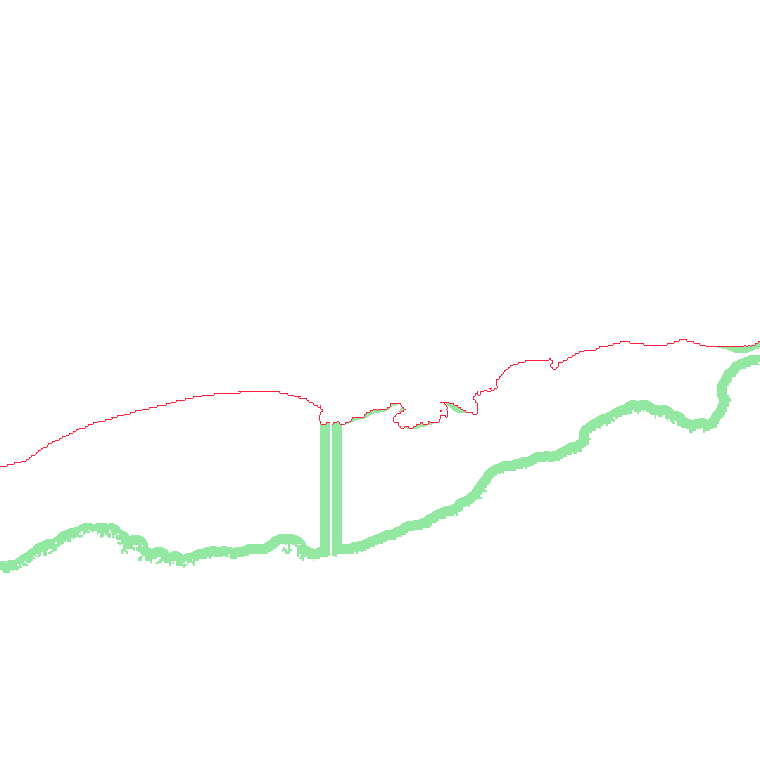
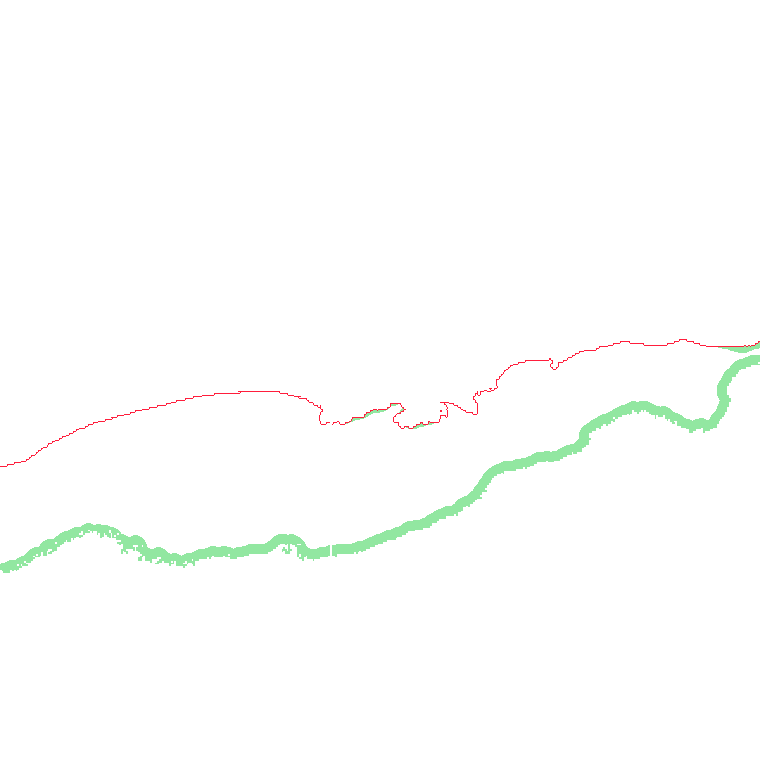
Map: mainland-only shore, drop seam artifacts, continuous 12 C line
Follow-up to the red-line/fake-shore fixes, from a closer look at the images:

1. Overlays were rendering out in the harbour interior — around offshore
   breakwaters/islands and along NONNA no-data boundaries. Reachability is now
   measured from the MAINLAND shore only (land connected to the image border), so
   isolated mid-lake structures no longer read as "shore."

2. A thin NONNA tile-seam no-data sliver connected to the mainland was seeding a
   straight "reachable" streak into the lake. A morphological opening of the land
   mask removes 1-2 px slivers (solid coast preserved: 239,757 -> 238,775 px) and
   kills the streak (~7,000 -> ~800 px in the seam region).

3. The 12 C line was a 1 px contour, so on diagonals it staircased into dots. It's
   now thickened to a continuous ~3 px stroke (kept in water) and confined to a
   nearshore band, so it reads as one clean line.

overlay.py gains mainland_only + line_band_m; tests updated (+ offshore-island
case). web/data rebuilt.

Claude-Session: https://claude.ai/code/session_0147ZbsWJaurVNbKbmtLAssD

Changed region(s): [[0.3934, 0.5447, 0.4539, 0.7263], [0.575, 0.5145, 0.6053, 0.5447]]

diff --git a/src/tbay_fishcast/features/overlay.py b/src/tbay_fishcast/features/overlay.py
@@ -20,7 +20,7 @@ from __future__ import annotations
 import math
 
 import numpy as np
-from scipy.ndimage import binary_dilation, distance_transform_edt, label
+from scipy.ndimage import binary_dilation, binary_opening, distance_transform_edt, label
 
 _R = 6378137.0
 
@@ -32,14 +32,19 @@ def merc(lat: float, lon: float) -> tuple[float, float]:
 
 
 def land_shore_distance(depth: np.ndarray, res_m: float, *, shallow_m: float = 2.5,
-                        min_land_px: int = 12):
-    """Distance-to-shore (ground metres) keeping only GENUINE land as shore.
+                        min_land_px: int = 12, mainland_only: bool = True):
+    """Distance-to-shore (ground metres) keeping only GENUINE, walk-to land as shore.
 
     A NaN component counts as land only if it (a) borders water shallower than
     `shallow_m` (real coast reaches ~0 m; offshore no-data holes border deep water)
     and (b) is at least `min_land_px` pixels (drops 1-3 px no-data specks that
     otherwise fake tiny offshore islands and spawn reachable speckle around them).
-    Returns (dist_m, land_mask).
+
+    With `mainland_only` (default), the shore is further restricted to land that
+    reaches the image border — i.e. the connected coast a person can walk. Isolated
+    offshore islands, breakwaters, and shoals in the harbour interior are dropped, so
+    the map shows cold water reachable FROM the shore, not around mid-lake structures
+    or NONNA tile-seam/no-data-boundary artifacts. Returns (dist_m, shore_mask).
     """
     water = np.isfinite(depth)
     lbl, n = label(~water)
@@ -51,21 +56,36 @@ def land_shore_distance(depth: np.ndarray, res_m: float, *, shallow_m: float = 2
         ring = binary_dilation(comp) & water
         if ring.any() and float(np.nanmin(depth[ring])) < shallow_m:
             land |= comp
+    if mainland_only and land.any():
+        clbl, _ = label(land)
+        border = (set(clbl[0, :]) | set(clbl[-1, :]) | set(clbl[:, 0]) | set(clbl[:, -1]))
+        border.discard(0)
+        if border:                                   # keep only coast reaching the edge
+            land = np.isin(clbl, list(border))
+    # remove thin land tendrils (NONNA tile-seam / no-data slivers that reach into the
+    # lake). Opening erodes then dilates, so the solid coast is preserved (edge restored)
+    # but 1-2 px slivers vanish — killing the linear "reachable" streaks they seed.
+    if land.any():
+        land = binary_opening(land, iterations=1)
     return distance_transform_edt(~land) * res_m, land
 
 
 def cold_line_reachable(depth: np.ndarray, iso_field: np.ndarray, dist: np.ndarray, *,
                         cast_m: float = 75.0, max_reach_depth_m: float = 22.0,
-                        min_reach_px: int = 20):
+                        min_reach_px: int = 20, line_band_m: float = 300.0):
     """(cold, line, reachable) boolean masks for one isotherm field.
 
+    `dist` is distance to the (mainland) shore. Both products are confined to the
+    nearshore so harbour-interior structures and NONNA artifacts don't render:
+
     cold      = water at/below the isotherm depth (cold water sits on the bottom).
-    line      = the target-isotherm contour: cold pixels bordering shallow WARM water
-                that connects to shore (the real drop-off edge), at any strip width.
-                Not drawn where cold merely runs to shore, nor at the offshore/no-data
-                edge, nor around interior interpolation pinholes.
-    reachable = cold within a cast of shore AND shallow enough to shore-fish, with
-                tiny isolated specks removed (fake offshore "shore").
+    line      = the target-isotherm contour within `line_band_m` of shore: cold pixels
+                bordering shallow WARM water that connects to shore (the real drop-off
+                edge), at any strip width. Not drawn where cold merely runs to shore,
+                nor at the offshore/no-data edge, nor around interpolation pinholes,
+                nor out in the lake interior.
+    reachable = cold within a cast of shore AND shallow enough to shore-fish, tiny
+                isolated specks removed.
     """
     water = np.isfinite(depth)
     cold = water & (depth >= iso_field)
@@ -78,7 +98,10 @@ def cold_line_reachable(depth: np.ndarray, iso_field: np.ndarray, dist: np.ndarr
         comp = lbl == c
         if (binary_dilation(comp) & ~water).any():   # touches land / shore
             shore_warm |= comp
-    line = cold & binary_dilation(shore_warm, iterations=1)
+    line = cold & binary_dilation(shore_warm, iterations=1) & (dist <= line_band_m)
+    # the raw contour is 1 px wide, so on diagonals it staircases into dots. Thicken
+    # it to a continuous stroke (kept in water so it doesn't bleed onto land).
+    line = binary_dilation(line, iterations=2) & water & (dist <= line_band_m)
 
     reachable = cold & (dist <= cast_m) & (depth <= max_reach_depth_m)
     rl, rn = label(reachable)

diff --git a/tests/test_overlay.py b/tests/test_overlay.py
@@ -48,9 +48,10 @@ def test_line_marks_warm_cold_interface_even_thin():
     dist, _ = land_shore_distance(depth, RES)
     iso = np.full_like(depth, 3.0)
     _, line, _ = cold_line_reachable(depth, iso, dist)
-    # the 3 m crossing sits between col5 (2 m, warm) and col6 (4 m, cold): line on col6
+    # the 3 m crossing sits between col5 (2 m, warm) and col6 (4 m, cold): the line
+    # marks that interface (thickened to a continuous stroke a few px wide)
     assert line[:, 6].all()
-    assert not line[:, 8].any()              # not smeared into deeper cold water
+    assert not line[:, 12].any()             # not smeared far into deeper cold water
 
 
 def test_tiny_nodata_speck_is_not_land():
@@ -68,6 +69,21 @@ def test_deep_warm_pinhole_makes_no_line():
     _, line, _ = cold_line_reachable(depth, iso, dist)
     # the pinhole is warm but does not touch shore -> no line ring around it
     assert not line[14:17, 19:22].any()
+
+
+def test_offshore_island_is_not_mainland_shore():
+    """An interior island (real, borders shallow water, big enough) is dropped when
+    mainland_only — it isn't walk-to shore, so cold water around it isn't 'reachable'."""
+    depth = np.full((30, 30), 10.0)
+    depth[:, :5] = np.nan                 # mainland block (touches the left border)
+    depth[:, 5] = 1.0                     # shallow waterline so the mainland is 'shore'
+    depth[12:19, 12:19] = 1.0             # a shallow patch mid-grid
+    depth[13:18, 13:18] = np.nan          # a 5x5 island inside it, off the border
+    _, shore_main = land_shore_distance(depth, RES, mainland_only=True)
+    _, shore_all = land_shore_distance(depth, RES, mainland_only=False)
+    assert shore_all[15, 15]              # island counts as land without the restriction
+    assert not shore_main[15, 15]         # dropped as non-mainland
+    assert shore_main[10, 2] and shore_all[10, 2]   # the mainland is kept either way
 
 
 def test_speck_removal_drops_isolated_reachable():
